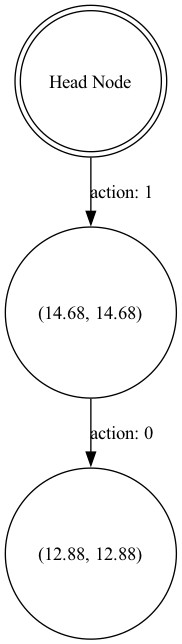
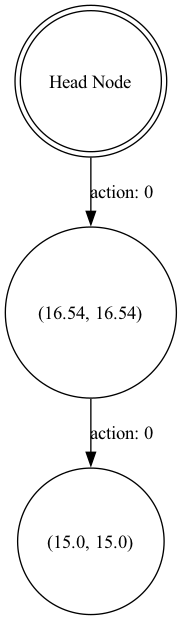
Final push (hopefully)! Also added implementation to test the runtimes of each algorithm. Got the empirical figures which are now included in the report.

diff --git a/adapt_simplification.py b/adapt_simplification.py
@@ -6,7 +6,7 @@ def find_optimal_policy(T):
     """
     Wrapper function for computing optimal policy given head node T.
     """
-    s = 10
+    s = 50
     return adapt_simplification(T, s)
 
 def adapt_simplification(T, s_i):
@@ -14,7 +14,7 @@ def adapt_simplification(T, s_i):
     Adapt simplification function. Recurses to simplify tree and return
     optimal action sequence and the bounds.
     """
-    print("Adapt Simplification Running", "s_i:", s_i)
+    print("s_i:", s_i)
     pf_new = ParticleFilter(T.particles.copy(), T.weights.copy())
     _, _, indices = pf_new.simplify(s_i)
 
@@ -48,8 +48,8 @@ def adapt_simplification(T, s_i):
         #get optimal action for node T
         best_action = optimal_child.prev_action
 
-        print("optimal_child", optimal_child)
-        print("child_action_branch", child_action_branch)
+        # print("optimal_child", optimal_child)
+        # print("child_action_branch", child_action_branch)
         new_action_branch = [best_action] + child_action_branch
         T.set_optimal_action(new_action_branch)
 
@@ -72,7 +72,7 @@ def adapt_simplification(T, s_i):
             LB = lb + LB
             UB = ub + UB
             T.set_bounds(LB, UB)
-            print(LB, UB, new_action_branch)
+            # print(LB, UB, new_action_branch)
             return LB, UB, new_action_branch
 
 def compare_children(T, s_i):
@@ -85,7 +85,6 @@ def compare_children(T, s_i):
     """
     mean_bounds = []
     child_nodes = T.get_all_children()
-    print("iterating through children")
     for child in child_nodes:
         LB, UB, _ = adapt_simplification(child, s_i)
         child.set_bounds(lb=LB, ub=UB)
@@ -104,10 +103,9 @@ def prune_children(T):
     If we still have many candidate children:
         False, None
     """
-    print("prune_children running")
     child_nodes = T.get_all_children()
     LB_star = max(child.get_lower_bound() for child in child_nodes)
-    print("LB_star", LB_star)
+    # print("LB_star", LB_star)
     pruned_children = []
     for child in child_nodes:
         if LB_star > child.get_upper_bound():

diff --git a/belief_tree.py b/belief_tree.py
@@ -181,10 +181,18 @@ class ParticleFilter:
         self.weights /= np.sum(self.weights)
 
     def simplify(self, num_simplified_particles):
-        if num_simplified_particles == len(self.particles):
-            indices = list(range(len(self.particles)))
-            return self.particles.copy(), self.weights.copy(), indices
-        indices = np.random.choice(len(self.particles), size=num_simplified_particles, replace=False, p=self.weights)
+        num_particles = len(self.particles)
+        num_simplified_particles = min(num_simplified_particles, num_particles)  # Ensure we do not exceed the number of particles
+        non_zero_weights = self.weights > 0
+        num_non_zero_weights = np.sum(non_zero_weights)
+        
+        if num_non_zero_weights < num_simplified_particles:
+            # Option 2: Assign a small non-zero probability to zero-weight particles
+            adjusted_weights = np.where(self.weights > 0, self.weights, 1e-10)
+            adjusted_weights /= adjusted_weights.sum()
+        else:
+            adjusted_weights = self.weights
+        indices = np.random.choice(num_particles, size=num_simplified_particles, replace=False, p=adjusted_weights)
         simplified_particles = self.particles[indices]
         simplified_weights = self.weights[indices]
         simplified_weights /= np.sum(simplified_weights)

diff --git a/adapt_simplification_risky.py b/adapt_simplification_risky.py
@@ -6,7 +6,7 @@ def find_optimal_policy(T):
     """
     Wrapper function for computing optimal policy given head node T.
     """
-    s = 10
+    s = 50
     return adapt_simplification(T, s)
 
 def adapt_simplification(T, s_i):
@@ -14,6 +14,7 @@ def adapt_simplification(T, s_i):
     Adapt simplification function. Recurses to simplify tree and return
     optimal action sequence and the bounds.
     """
+    print("s_i", s_i)
     pf_new = ParticleFilter(T.particles.copy(), T.weights.copy())
     _, _, indices = pf_new.simplify(s_i)
 
@@ -107,8 +108,9 @@ def prune_children(T):
         else:
             risky_prune.append(child)
     LB_star = max(child.get_lower_bound() for child in risky_prune)
+    # print("LB_star",LB_star)
     pruned_children = []
-    for child in child_nodes:
+    for child in risky_prune:
         if LB_star > child.get_upper_bound():
             print("pruning child: LB_star > UB")   
         else:
@@ -153,4 +155,5 @@ def calculate_bounds(x_new, w_new, indices, action, observation, x_s_old, w_s_ol
     a = np.log(sum(pf.observation_model(x_i, observation) * w_i for x_i, w_i in zip(x_new, w_new)) + eps)
     if upper_bound < lower_bound:
         lower_bound = upper_bound
+    # print("calculate_bounds",lower_bound, upper_bound)
     return lower_bound + a, upper_bound + a

diff --git a/test_basic.py b/test_basic.py
@@ -2,6 +2,9 @@ import numpy as np
 from belief_tree import BeliefTree
 from adapt_simplification import find_optimal_policy
 from graph_tree import visualize_belief_tree
+import time
+
+np.random.seed(123)
 
 pn = 100
 initial_particles = np.random.randn(pn, 1)
@@ -10,8 +13,9 @@ print("initial_weights", initial_weights)
 
 T = BeliefTree(2, initial_particles, initial_weights)
 T.construct_belief_tree()
-
+start_time = time.time()
 LB, UB, action_sequence = find_optimal_policy(T.head_node)
+end_time = time.time()
 print('LB', LB)
 print('UB', UB)
 print('action_sequence', action_sequence)
@@ -19,3 +23,5 @@ print('action_sequence', action_sequence)
 print(T.head_node)
 
 visualize_belief_tree(T.head_node)
+
+print("Elapsed Time:", end_time - start_time)

diff --git a/test_riskystate.py b/test_riskystate.py
@@ -2,6 +2,9 @@ import numpy as np
 from belief_tree import BeliefTree
 from adapt_simplification_risky import find_optimal_policy
 from graph_tree import visualize_belief_tree
+import time
+
+np.random.seed(123)
 
 pn = 100
 initial_particles = np.random.randn(pn, 1)
@@ -10,11 +13,15 @@ initial_weights = np.ones(pn) / pn
 T = BeliefTree(2, initial_particles, initial_weights)
 T.construct_belief_tree()
 
+start_time = time.time()
+
 LB, UB, action_sequence = find_optimal_policy(T.head_node)
+
+end_time = time.time()
+
 print('LB', LB)
 print('UB', UB)
 print('action_sequence', action_sequence)
 
-print(T.head_node)
-
 visualize_belief_tree(T.head_node)
+print("Elapsed Time:", end_time - start_time)
